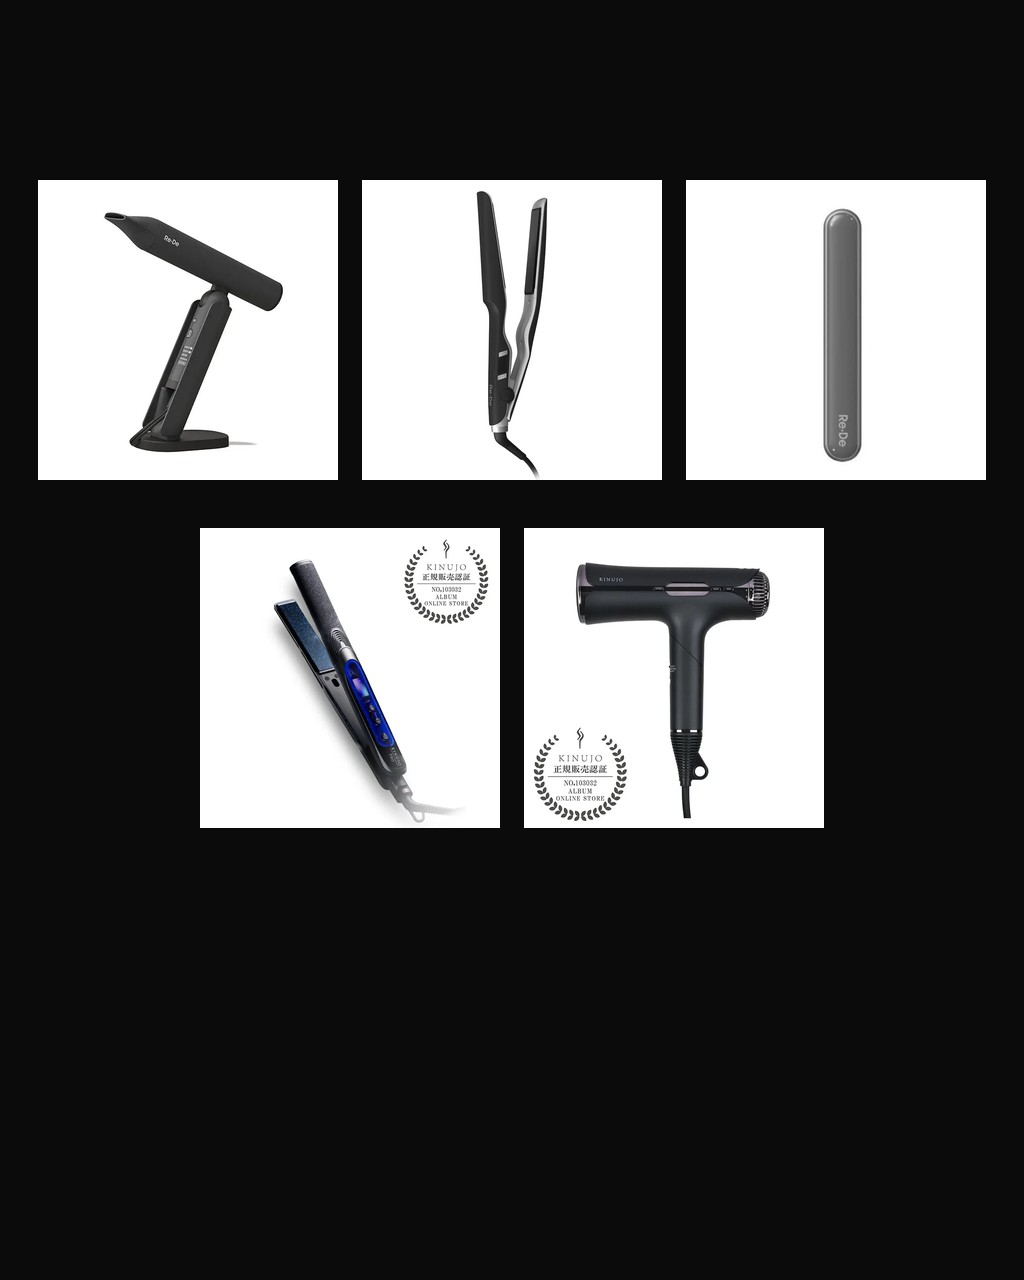
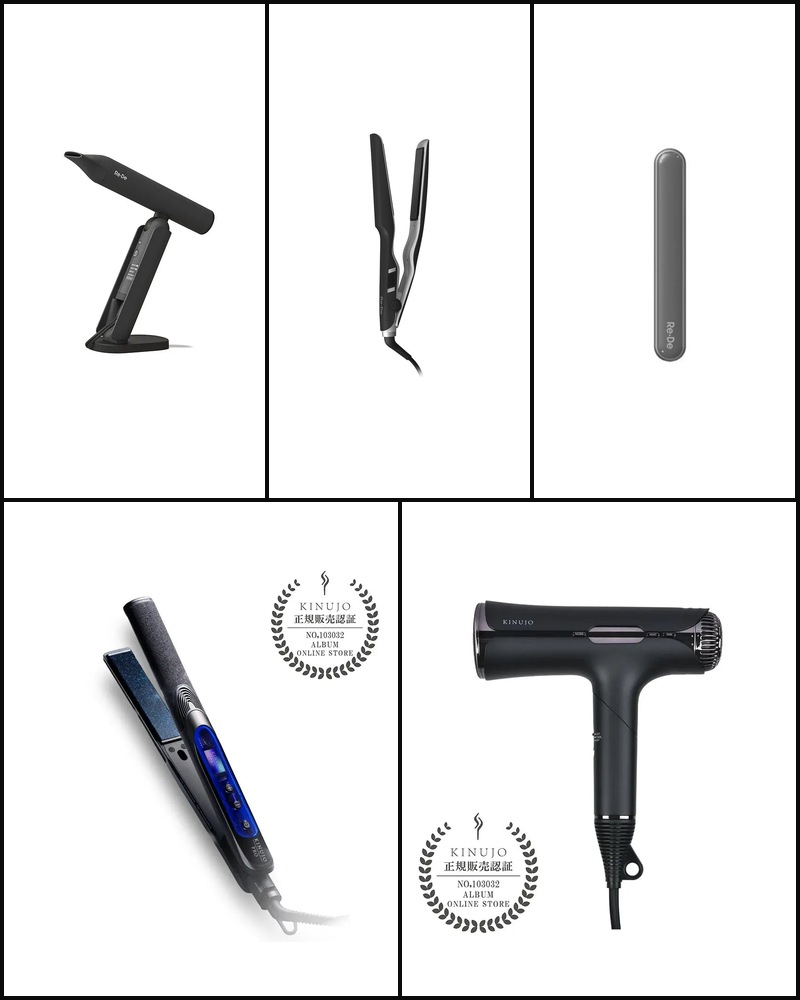
Add files via upload

diff --git a/content/articles.ts b/content/articles.ts
@@ -109,8 +109,8 @@ export const articles: Article[] = [
     thumbnailImage: {
       src: "/images/articles/beauty-appliances-5-picks-collage.jpg",
       alt: "美容家電おすすめ5選のまとめサムネイル",
-      width: 1024,
-      height: 1280,
+      width: 800,
+      height: 1000,
     },
     excerpt:
       "ドライヤー・ストレートアイロン・スティック美顔器。用途とデザインの違いで選ぶ美容家電5選。",
